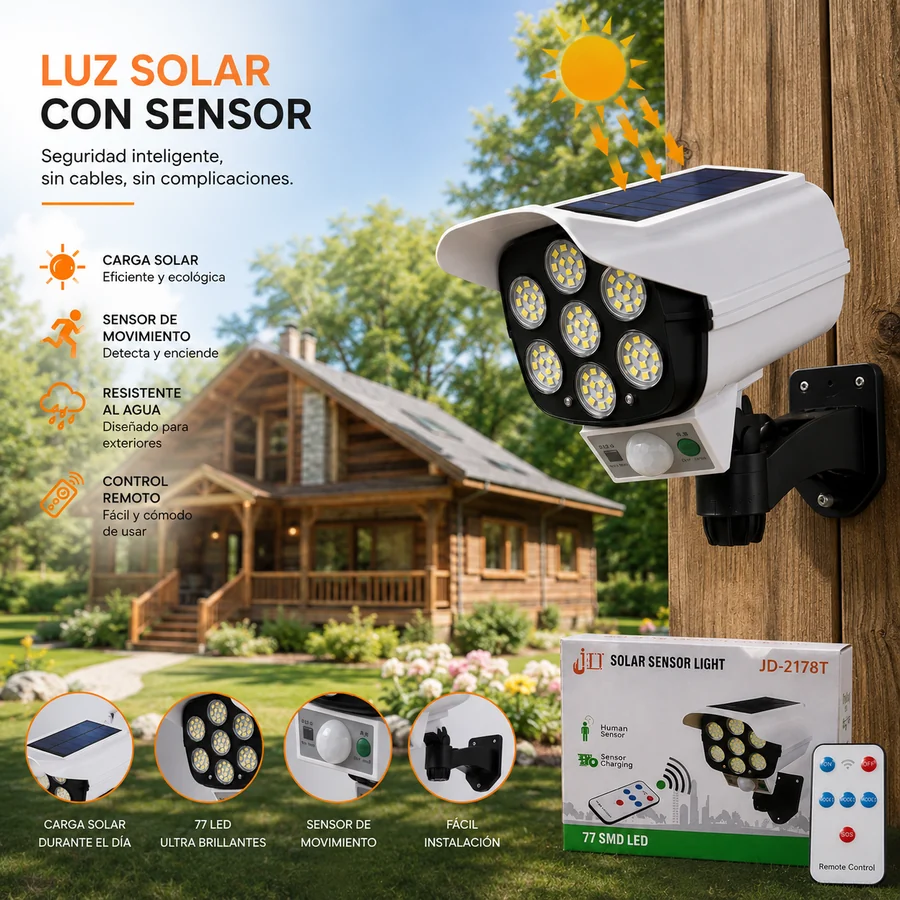
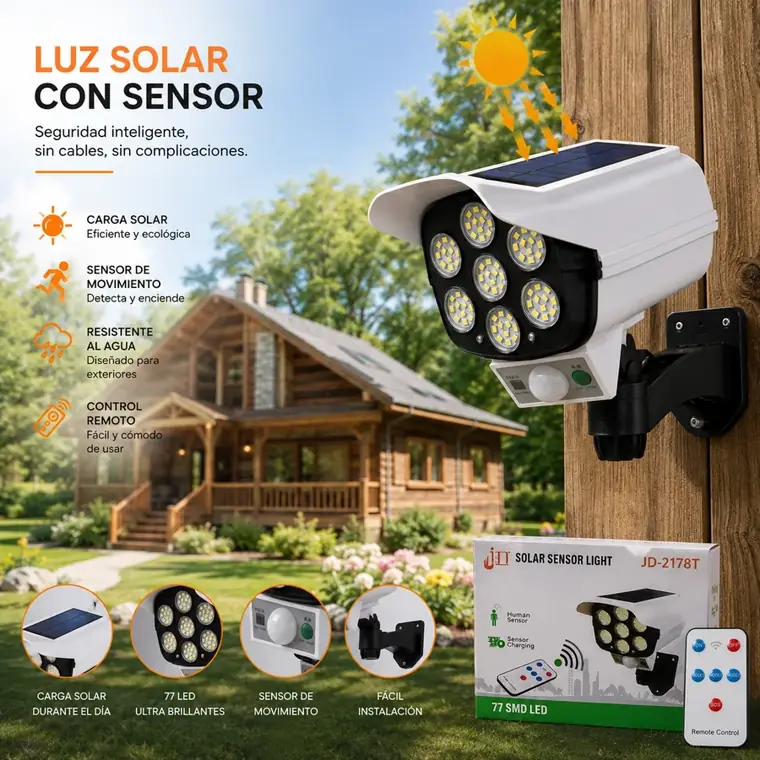
Foco: de 1.879 KB a lo minimo — imagenes, doble descarga y hero diferido
James: "eso esta muy pesado, no carga, arregla bien esa vaina".

Medido el desglose real, no a ojo:
    VIDEO   790 KB
    imagen  484 KB
    js      278 KB
    otro    266 KB  (pixel de Facebook + fuentes)
    css      60 KB

Tres arreglos:

1. 🔴 prod-foco.webp SE BAJABA DOS VECES (128 + 128 = 256 KB). En
   productos.js el campo `foto` la pedia con ?v=1 y el campo `fotos` sin
   parametro: para el navegador eran dos archivos distintos. Unificadas
   en ?v=2.

2. IMAGENES RECOMPRIMIDAS a 760 px de ancho y calidad 72:
     prod-foco     128 -> 56 KB
     prod-foco-2   156 -> 76 KB
     prod-foco-3    48 -> 24 KB
     prod-foco-ba  132 -> 56 KB
     total         464 -> 212 KB
   Revisadas: se lee todo el texto de los rotulos, no se degradaron.

3. EL VIDEO DEL HERO YA NO SE BAJA AL ABRIR. Pasa a preload="none": entra
   primero el poster (12 KB) y el cliente ve el producto de inmediato; el
   video se enciende cuando la pagina termino de cargar. Antes se traia
   224 KB compitiendo con la primera pantalla.
   La cascada del texto ya no espera al video: entra con el poster.

diff --git a/foco.js b/foco.js
@@ -65,15 +65,15 @@
        prod-foco-2  -> el sol cargando el panel, y la caja del proveedor
        prod-foco-3  -> las medidas y los dos giros del soporte */
   var FOTOS = [
-    ['img/prod-foco.webp?v=1',
+    ['img/prod-foco.webp?v=2',
      'El foco solar encendido en la pared de una casa de noche, con el detalle de los LED, el sensor y el control remoto',
      'Lo que hace', 'Alumbra la entrada completa',
      'Los LED se encienden juntos y el chorro de luz cubre el frente de la casa. Abajo, el sensor de movimiento y el control remoto que viene en la caja.'],
-    ['img/prod-foco-2.webp?v=1',
+    ['img/prod-foco-2.webp?v=2',
      'El panel solar del foco recibiendo el sol, junto a la caja del producto que indica 77 SMD LED',
      'De dónde sale la luz', 'El sol de todo el día, guardado',
      'El panel de arriba carga mientras tú no estás. No se enchufa a la corriente: por eso no le suma nada a la cuenta de la luz.'],
-    ['img/prod-foco-3.webp?v=1',
+    ['img/prod-foco-3.webp?v=2',
      'Medidas del foco: 20 cm de largo, 8 de alto y 11 de profundidad, y el soporte que gira 360 grados y se inclina 90',
      'Dónde lo pones', '20 cm que apuntan a donde quieras',
      'El soporte gira 360° de lado a lado y se inclina 90° arriba y abajo. Lo atornillas donde te sirva y lo dejas apuntando a la puerta, al portón o al pasaje.'],
@@ -172,7 +172,11 @@
          Los TEXTOS NO van quemados en el video: van acá, encima, y ARRIBA
          (la guirnalda los lleva abajo; esto es lo que él pidió cambiar). */
       '<div class="fo-hero">' +
-        '<video class="fo-video" autoplay muted loop playsinline preload="auto"' +
+        /* 🔴 preload="none": el video NO se baja al abrir. Primero entra el
+           póster (12 KB) y el cliente ya ve el producto; el video llega
+           después, cuando la página terminó de cargar. Con preload="auto"
+           se traía 224 KB compitiendo con la primera pantalla. */
+        '<video class="fo-video" autoplay muted loop playsinline preload="none"' +
           ' poster="img/foco-hero-poster.webp?v=1"' +
           ' aria-label="La misma casa de día y de noche: el foco se carga con el sol y al oscurecer se enciende e ilumina la entrada">' +
           '<source src="img/foco-hero.mp4?v=2" type="video/mp4">' +
@@ -389,11 +393,16 @@
         requestAnimationFrame(function () { document.body.classList.add('fo-listo'); });
       });
     }
+    /* con preload="none" el video no empieza solo: se enciende cuando la
+       página ya cargó, para que no compita con la primera pantalla */
     if (vid) {
-      if (vid.readyState >= 2) soltar();
-      else vid.addEventListener('loadeddata', soltar, { once: true });
+      var prender = function () {
+        try { vid.preload = 'auto'; vid.load(); var p = vid.play(); if (p && p.catch) p.catch(function () {}); } catch (e) {}
+      };
+      if (document.readyState === 'complete') setTimeout(prender, 400);
+      else window.addEventListener('load', function () { setTimeout(prender, 400); });
     }
-    setTimeout(soltar, 1200);        /* pase lo que pase, el texto aparece */
+    setTimeout(soltar, 700);         /* el texto entra con el póster, sin esperar al video */
   }
 
   /* 🔴 EL CONTEO DE LOS TRES NÚMEROS.

diff --git a/productos.js b/productos.js
@@ -295,7 +295,7 @@ window.PRODUCTOS = [
   {
     id: 'foco', unidad: 'uno', promo: 3,
     fotosResenas: ['img/resenas-foco/rf1.webp?v=1','img/resenas-foco/rf2.webp?v=1','img/resenas-foco/rf3.webp?v=1','img/resenas-foco/rf4.webp?v=1','img/resenas-foco/rf5.webp?v=1','img/resenas-foco/rf6.webp?v=1','img/resenas-foco/rf7.webp?v=1','img/resenas-foco/rf8.webp?v=1','img/resenas-foco/rf9.webp?v=1'],
-    antesDespues: 'img/prod-foco-ba.webp?v=1',
+    antesDespues: 'img/prod-foco-ba.webp?v=2',
     antesDespuesSub: 'El mismo camino, la misma noche: a oscuras y con el foco encendido por el sensor.',
     /* preguntas DEL PRODUCTO; las de despacho van detras, iguales para todos */
     preguntas: [
@@ -313,8 +313,8 @@ window.PRODUCTOS = [
     nombre: 'Foco Solar Tipo Cámara',
     sub: '77 leds, sensor de movimiento y control remoto',
     categoria: 'Hogar',
-    foto: 'img/prod-foco.webp?v=1',
-    fotos: ['img/prod-foco.webp', 'img/prod-foco-2.webp', 'img/prod-foco-3.webp'],
+    foto: 'img/prod-foco.webp?v=2',
+    fotos: ['img/prod-foco.webp?v=2', 'img/prod-foco-2.webp?v=2', 'img/prod-foco-3.webp?v=2'],
     /* el video limpio de la ficha: sale del creativo de campaña
        VIDEO_foco_seguridad_916, recortado a la banda del metraje. SIN el
        titulo de arriba, SIN la pildora de precio, SIN los subtitulos y SIN

diff --git a/producto.html b/producto.html
@@ -15,7 +15,7 @@
 <link rel="stylesheet" href="antena.css?v=6">
 <link rel="stylesheet" href="cargador.css?v=23">
 <link rel="stylesheet" href="guirnalda.css?v=30">
-<link rel="stylesheet" href="foco.css?v=16">
+<link rel="stylesheet" href="foco.css?v=17">
 <style>
 /* ============================================================
    FICHA DE PRODUCTO
@@ -1110,7 +1110,7 @@ window.jayePixel = (function () {
     </div>
   </footer>
 
-<script src="productos.js?v=74"></script>
+<script src="productos.js?v=75"></script>
 <script src="chile-regiones.js?v=2"></script>
 <script src="resenas.js?v=30"></script>
 <script src="efectos.js?v=4"></script>
@@ -1128,7 +1128,7 @@ window.jayePixel = (function () {
 <script src="antena.js?v=8"></script>
 <script src="cargador.js?v=23"></script>
 <script src="guirnalda.js?v=30"></script>
-<script src="foco.js?v=16"></script>
+<script src="foco.js?v=17"></script>
 <script>
 /* ---- el video del producto NO se baja al abrir la pagina ----
    Antes iba con preload="auto": el celular se traia los 2,1 MB de una,
